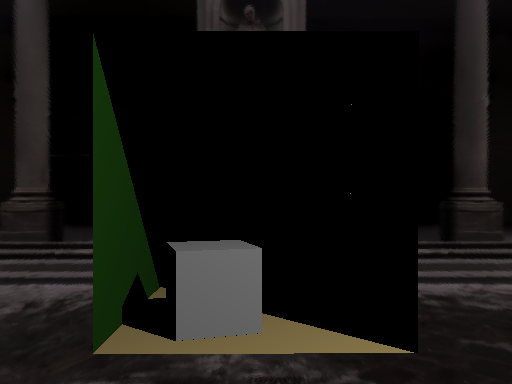
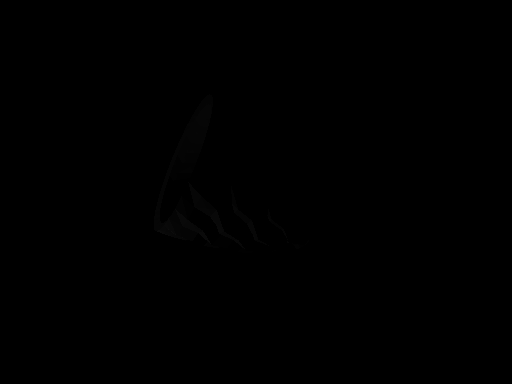
started integrator

diff --git a/cs488/src/integrator.h b/cs488/src/integrator.h
@@ -15,9 +15,10 @@ private:
     // Number of photons traced per pass
     int numPhotons;
     int depth;
-    int iterations;                      
+    int iterations;
+    float globalRadius;                      
 
-    void buildPhotonMap() {
+    void tracePhotons(Scene &scene, int seed) {
         /*
         This function does photon tracing and stores photons in the map
         when they hit diffuse surface. Note that the direction of the photon ray 
@@ -29,19 +30,20 @@ private:
 
     }
 
-    void radiance() {
+    float3 getRadiance(const float3 &wo, HitInfo &HitInfo) {
         /*
         This function needs to estimate the radiance at a point using the
         photon map. We find all the photons that are within the radius
         around the hitpoint and then sum up the contribution of the photons 
         and multiply with the BRDF. 
         */
+       return float3(1,1,1);
     }
     
 
 public:
 
-    void render() {
+    void render(Scene &scene, Image &image) {
         /*
         This function will be in a loop for the specified iterations. In each
         iteration, it will first build a photon map and then do a ray tracing pass.
@@ -51,6 +53,47 @@ public:
         handle reflection and refraction. This function is essentially the Fig 3 from the Knaus &
         Zwicker paper.
         */
+        for (int x = 0; x < iterations; x++) {
+
+            // Photon tracing pass
+            // TODO: Clear photon map from the previous iter before tracing new photons
+            // TODO: Have some random seed pass into the tracePhotons so a new distribution of photons is traced
+            int seed;
+            tracePhotons(scene, seed);
+            
+
+            // Ray tracing pass now (lines 5 - 13 in Fig 3 in the paper)
+            for (int j = 0; j < globalHeight; ++j) {
+                for (int i = 0; i < globalWidth; ++i) {
+                    const Ray ray = scene.eyeRay(i, j);
+                    float3 weight = float3(1.0f, 1.0f, 1.0f);        // W in the paper. I use beta described in PBRT implementation 
+                    float3 radiance;
+
+                    // We trace until diffuse surface is hit
+                    for (int k = 0; k < depth; k++) {
+                        HitInfo hitInfo;
+                        if (scene.intersect(hitInfo, ray)) {
+                            if (hitInfo.material->type == MAT_LAMBERTIAN) {
+                                radiance = weight * getRadiance(-ray.d, hitInfo);
+                            }
+                            // Specular 
+                            else if (hitInfo.material->type == MAT_GLASS || hitInfo.material->type == MAT_METAL) {
+                                // Need to generate a new ray here using brdf
+                                
+                            }
+                            else {
+                                break;
+                            }
+                        }
+                    }
+                }
+            }
+
+        }
+
+
+
+
     }
 
 };

diff --git a/cs488/src/shading.h b/cs488/src/shading.h
@@ -1,6 +1,6 @@
 #pragma once
 
-#include "environment.h"
+
 #include "scene.h"
 
 // fill in the missing parts
@@ -54,12 +54,7 @@ static float3 shade(const HitInfo& hit, const float3& viewDir, const int level) 
 		if (globalScene.intersect(reflectedHitInfo, reflectedRay, 0.00001)) {
 			return 0.9f * shade(reflectedHitInfo, -reflectedDir, level + 1);
 		} else {
-			if (globalEnvironmentMap.isLoaded) {
-				return globalEnvironmentMap.fetch(&reflectedRay);
-			}
-			else {
-				return float3(0.0f);
-			}
+			return float3(0.0f);
 		}
 	return hit.material->Kd;
 
@@ -86,12 +81,7 @@ static float3 shade(const HitInfo& hit, const float3& viewDir, const int level) 
 			if (globalScene.intersect(reflectedHitInfo, reflectedRay, 0.00001)) {
 				return shade(reflectedHitInfo, -reflectedDir, level + 1);
 			} else {
-				if (globalEnvironmentMap.isLoaded) {
-					return globalEnvironmentMap.fetch(&reflectedRay);
-				}
-				else {
-					return float3(0.0f);
-				}
+				return float3(0.0f);
 			}
 		}
 
@@ -101,9 +91,6 @@ static float3 shade(const HitInfo& hit, const float3& viewDir, const int level) 
 		HitInfo refractedHitInfo;
 		if (globalScene.intersect(refractedHitInfo, refractedRay, 0.00001)) {
 			return shade(refractedHitInfo, -refractDir, level + 1);
-		}
-		else if (globalEnvironmentMap.isLoaded) {
-			return globalEnvironmentMap.fetch(&refractedRay);
 		}
 		else {
 			return float3(0.0f);

diff --git a/cs488/src/scene.h b/cs488/src/scene.h
@@ -1,7 +1,6 @@
 #pragma once
 
 #include "bvh.h"
-#include "environment.h"
 #include "globals.h"
 #include "image.h"
 #include "mesh.h"
@@ -109,14 +108,9 @@ public:
 				if (intersect(hitInfo, ray)) {
 					FrameBuffer.pixel(i, j) = shade(hitInfo, -ray.d);
 				} else {
-					if (globalEnvironmentMap.isLoaded) {
-						FrameBuffer.pixel(i, j) = globalEnvironmentMap.fetch(&ray);
-					}
-					else {
-						FrameBuffer.pixel(i,j) = float3(0.0f); // background color
-					}
-
+					FrameBuffer.pixel(i,j) = float3(0.0f); // background color
 				}
+
 			}
 
 			// show intermediate process

diff --git a/cs488/src/window.h b/cs488/src/window.h
@@ -1,6 +1,5 @@
 #pragma once
 
-#include "environment.h"
 #include "globals.h"
 #include "image.h"
 #include "input.h"
@@ -103,7 +102,6 @@ public:
 
 	void start() const {
 		globalScene.preCalc();
-		globalEnvironmentMap.load("/Users/parth/cs688/cs488/media/uffizi_probe.hdr");
 		while (glfwWindowShouldClose(globalGLFWindow) == GL_FALSE) {
 			glfwPollEvents();
 			globalViewDir = normalize(globalLookat - globalEye);

diff --git a/cs488/src/main.cpp b/cs488/src/main.cpp
@@ -38,7 +38,6 @@ int main(int argc, const char* argv[]) {
     setupLightSource();
 
     globalScene.preCalc();
-	globalEnvironmentMap.load("/Users/parth/cs688/cs488/media/uffizi_probe.hdr");
     globalViewDir = normalize(globalLookat - globalEye);
 	globalRight = normalize(cross(globalViewDir, globalUp));
 

diff --git a/cs488/src/cs488.h b/cs488/src/cs488.h
@@ -12,7 +12,6 @@
 #include "material.h"
 #include "geometry.h"
 #include "mesh.h"
-#include "environment.h"
 #include "bvh.h"
 #include "scene.h"
 #include "shading.h"
